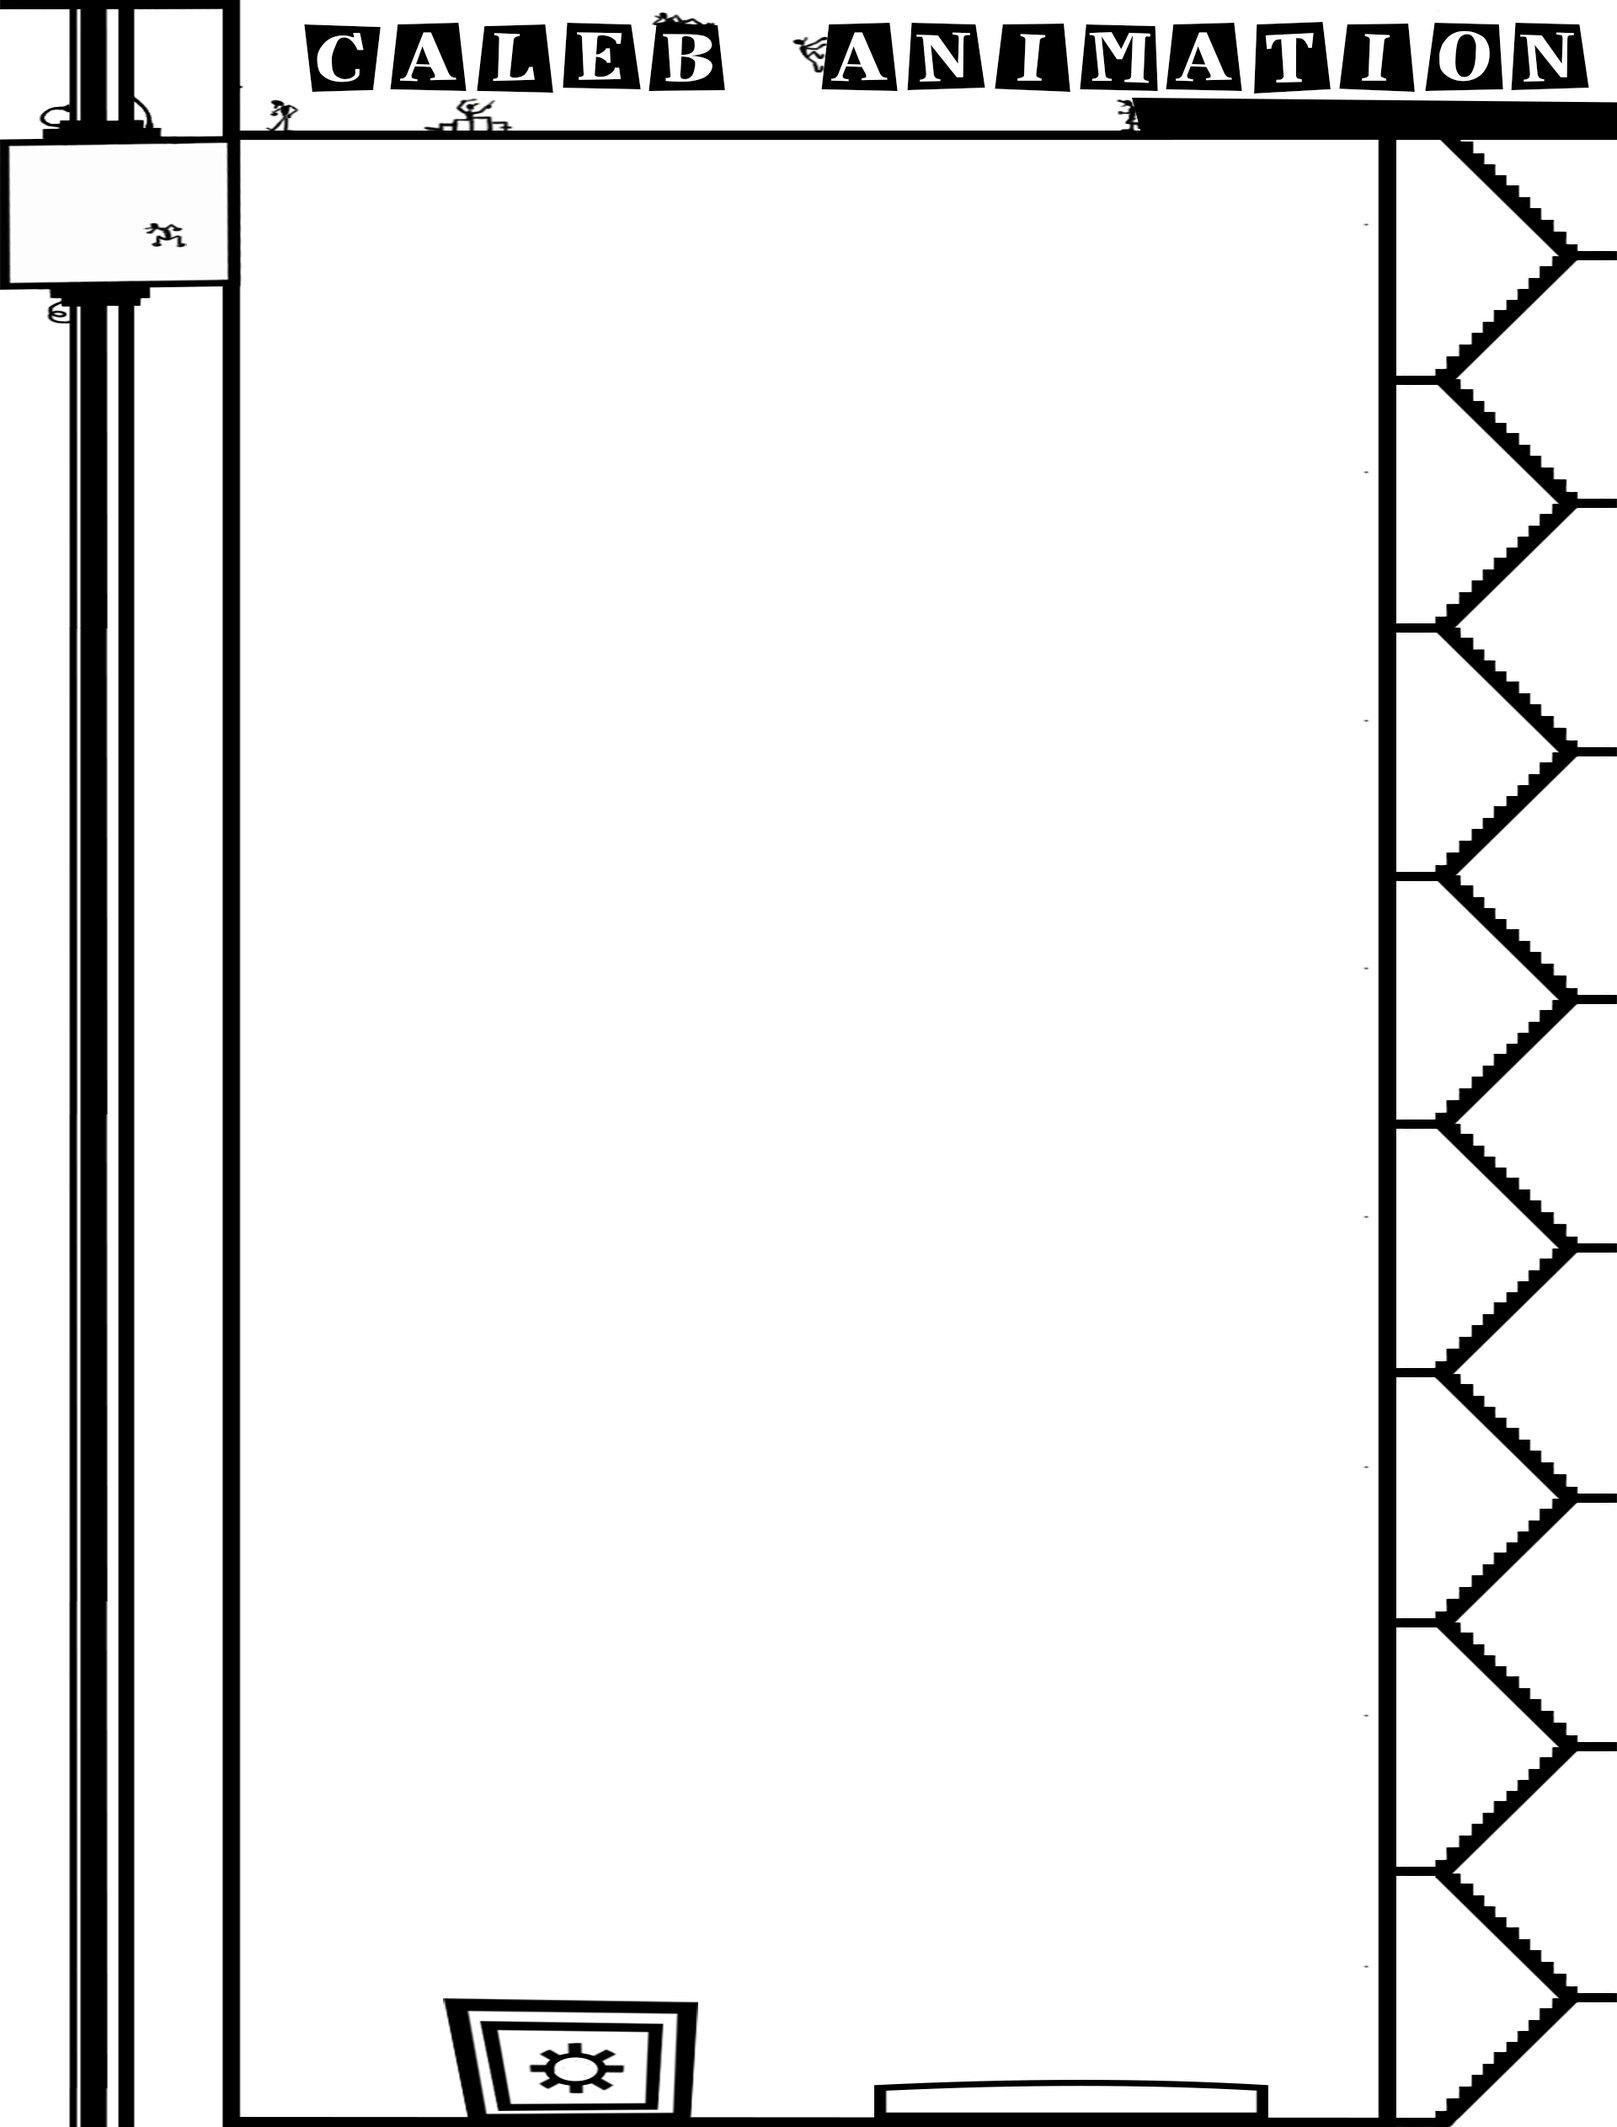
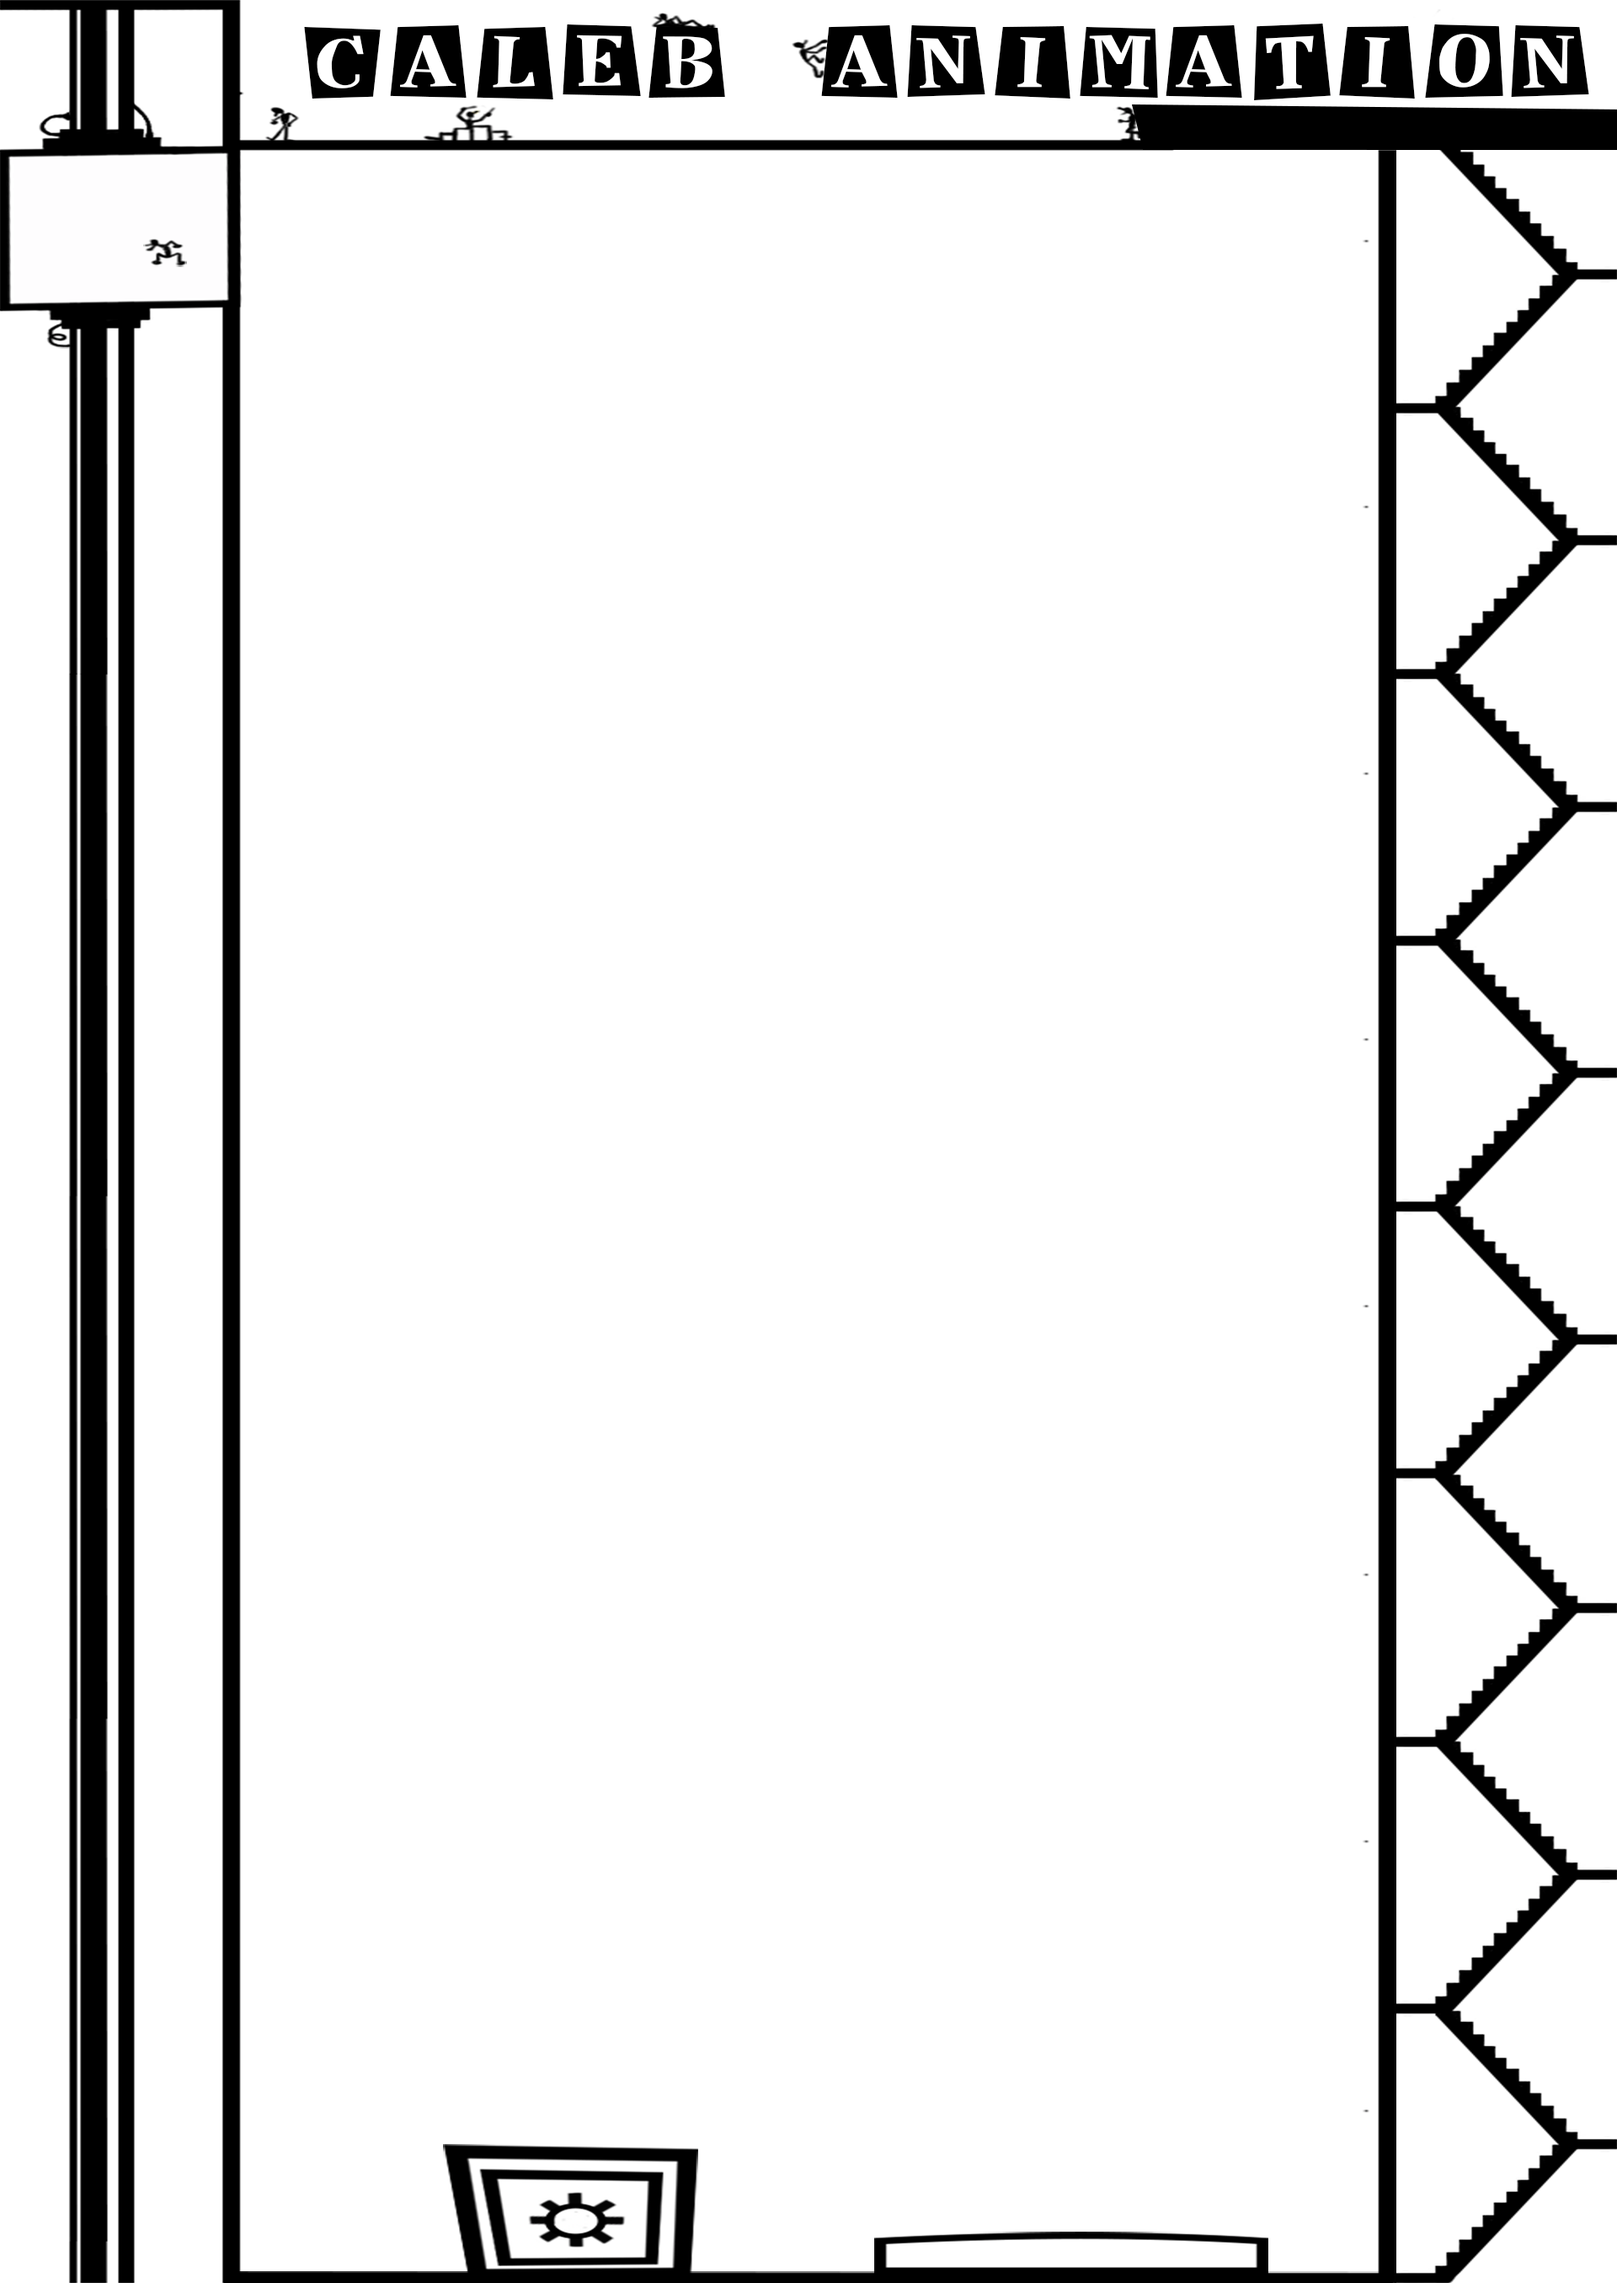
optimizing for 1920 displays than moving from there

Changed region(s): [[0.8125, 0.9885, 0.8438, 1.0]]

diff --git a/index.html b/index.html
@@ -15,7 +15,7 @@
         <link rel="stylesheet" href="css/main.css">
     </head>
     <body>
-    <!--<div id="container" class="bg">-->
+    <div id="container" class="bg">
         <!--[if lte IE 9]>
             <p class="browserupgrade">You are using an <strong>outdated</strong> browser. Please <a href="https://browsehappy.com/">upgrade your browser</a> to improve your experience and security.</p>
         <![endif]-->
@@ -91,16 +91,18 @@
                     </div>
                 </div>
             </div>
-            <div id="section-other" class="tab-content">
-                <h2>Other</h2>
-                <p>There will be other stuff here... I think.</p>
+            <div id="section-character" class="tab-content-filler">
+
+            </div>
+            <div id="section-other" class="tab-content-filler">
+
             </div>
         </div>
 
         <footer>
             <div class="footer">Footer</div>
         </footer>
-    <!--</div>-->
+    </div>
 
         <script src="js/vendor/modernizr-3.5.0.min.js"></script>
         <script src="https://code.jquery.com/jquery-3.2.1.min.js" integrity="sha256-hwg4gsxgFZhOsEEamdOYGBf13FyQuiTwlAQgxVSNgt4=" crossorigin="anonymous"></script>

diff --git a/css/main.css b/css/main.css
@@ -14,11 +14,7 @@ html {
     color: #222;
     font-size: 1em;
     line-height: 1.4;
-    background-image: url("../img/fullbackground.png");
-    -webkit-background-size: cover;
-    -moz-background-size: cover;
-    -o-background-size: cover;
-    background-size: cover;
+    height:100%;
 }
 
 /*
@@ -115,10 +111,11 @@ textarea {
 .bg {
     background-image: url("../img/fullbackground.png");
     height:100%;
+    background-repeat: no-repeat;
 }
 
 .header {
-    height: 157px;
+    height: 167px;
     text-align:center;
     padding:5px;
     display: block;
@@ -128,6 +125,8 @@ textarea {
     font-family: Horse, "Courier New";
     font-size: 54px;
     clear:both;
+    color: white;
+    background: black;
     text-align:center;
     overflow: hidden;
 }
@@ -137,6 +136,11 @@ textarea {
 .tab-content {
     height: 600px;
     clear: both;
+}
+
+.tab-content-filler{
+    height: 600px;
+
 }
 
 .wrapper {
